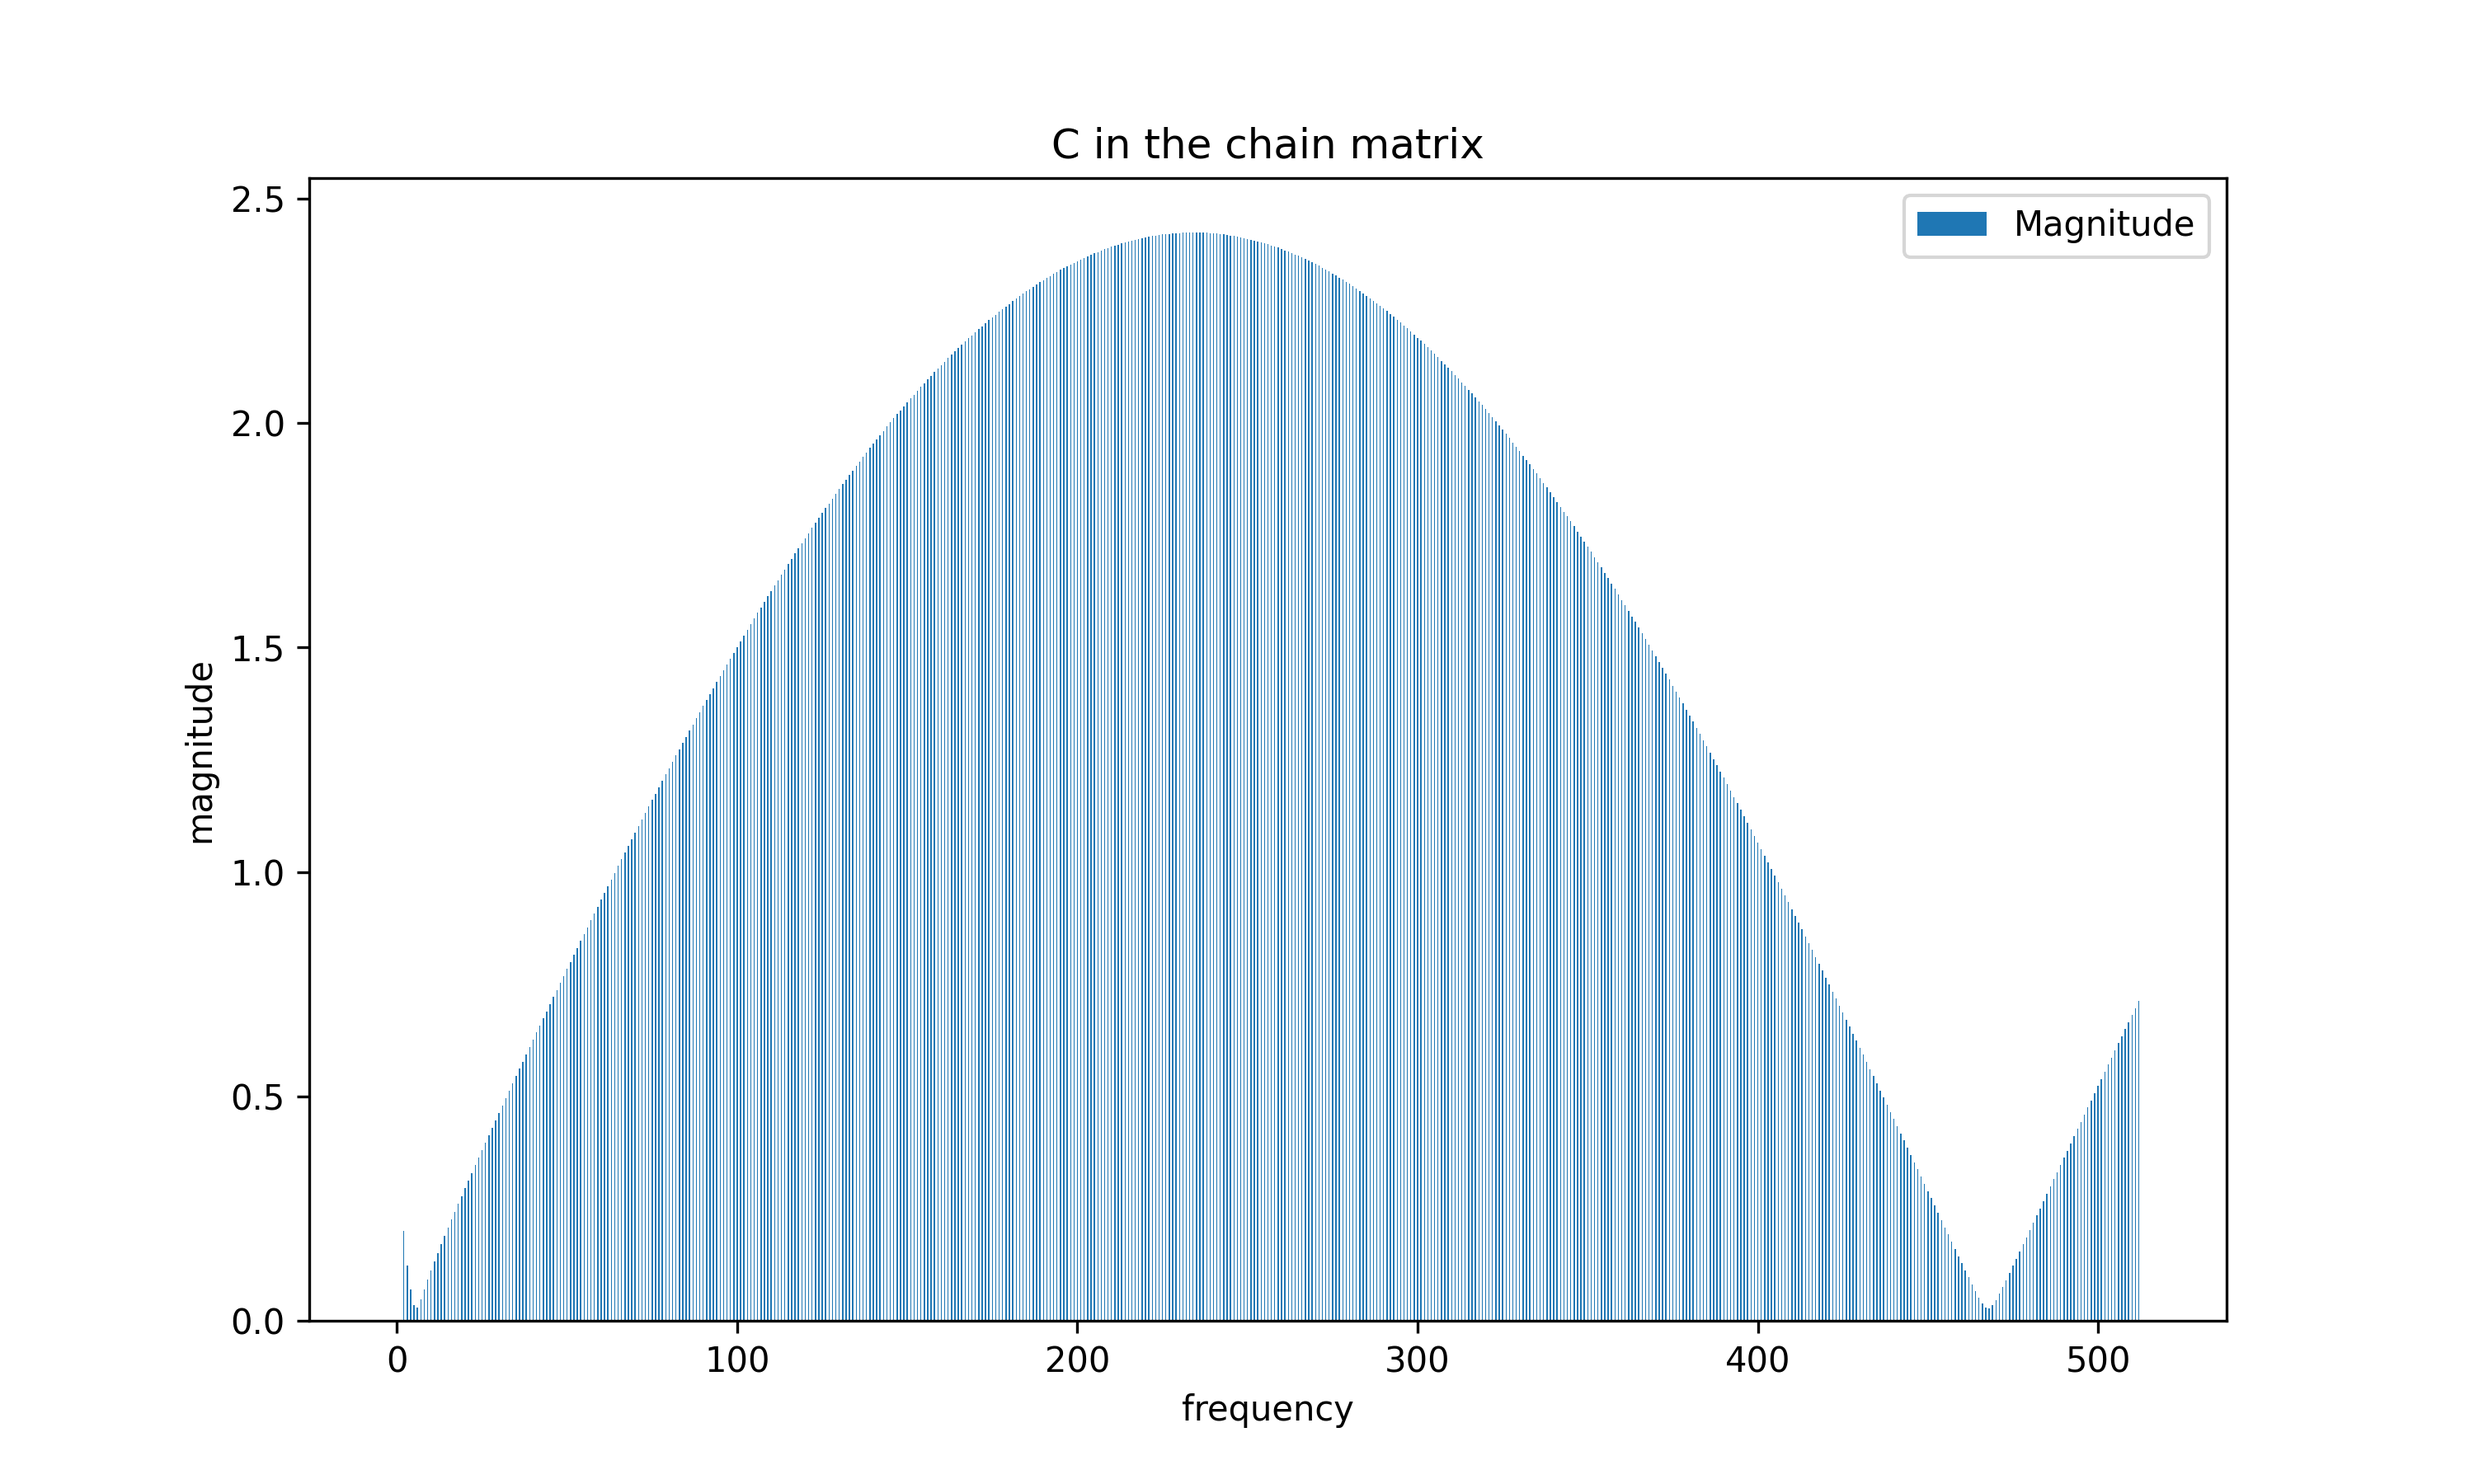
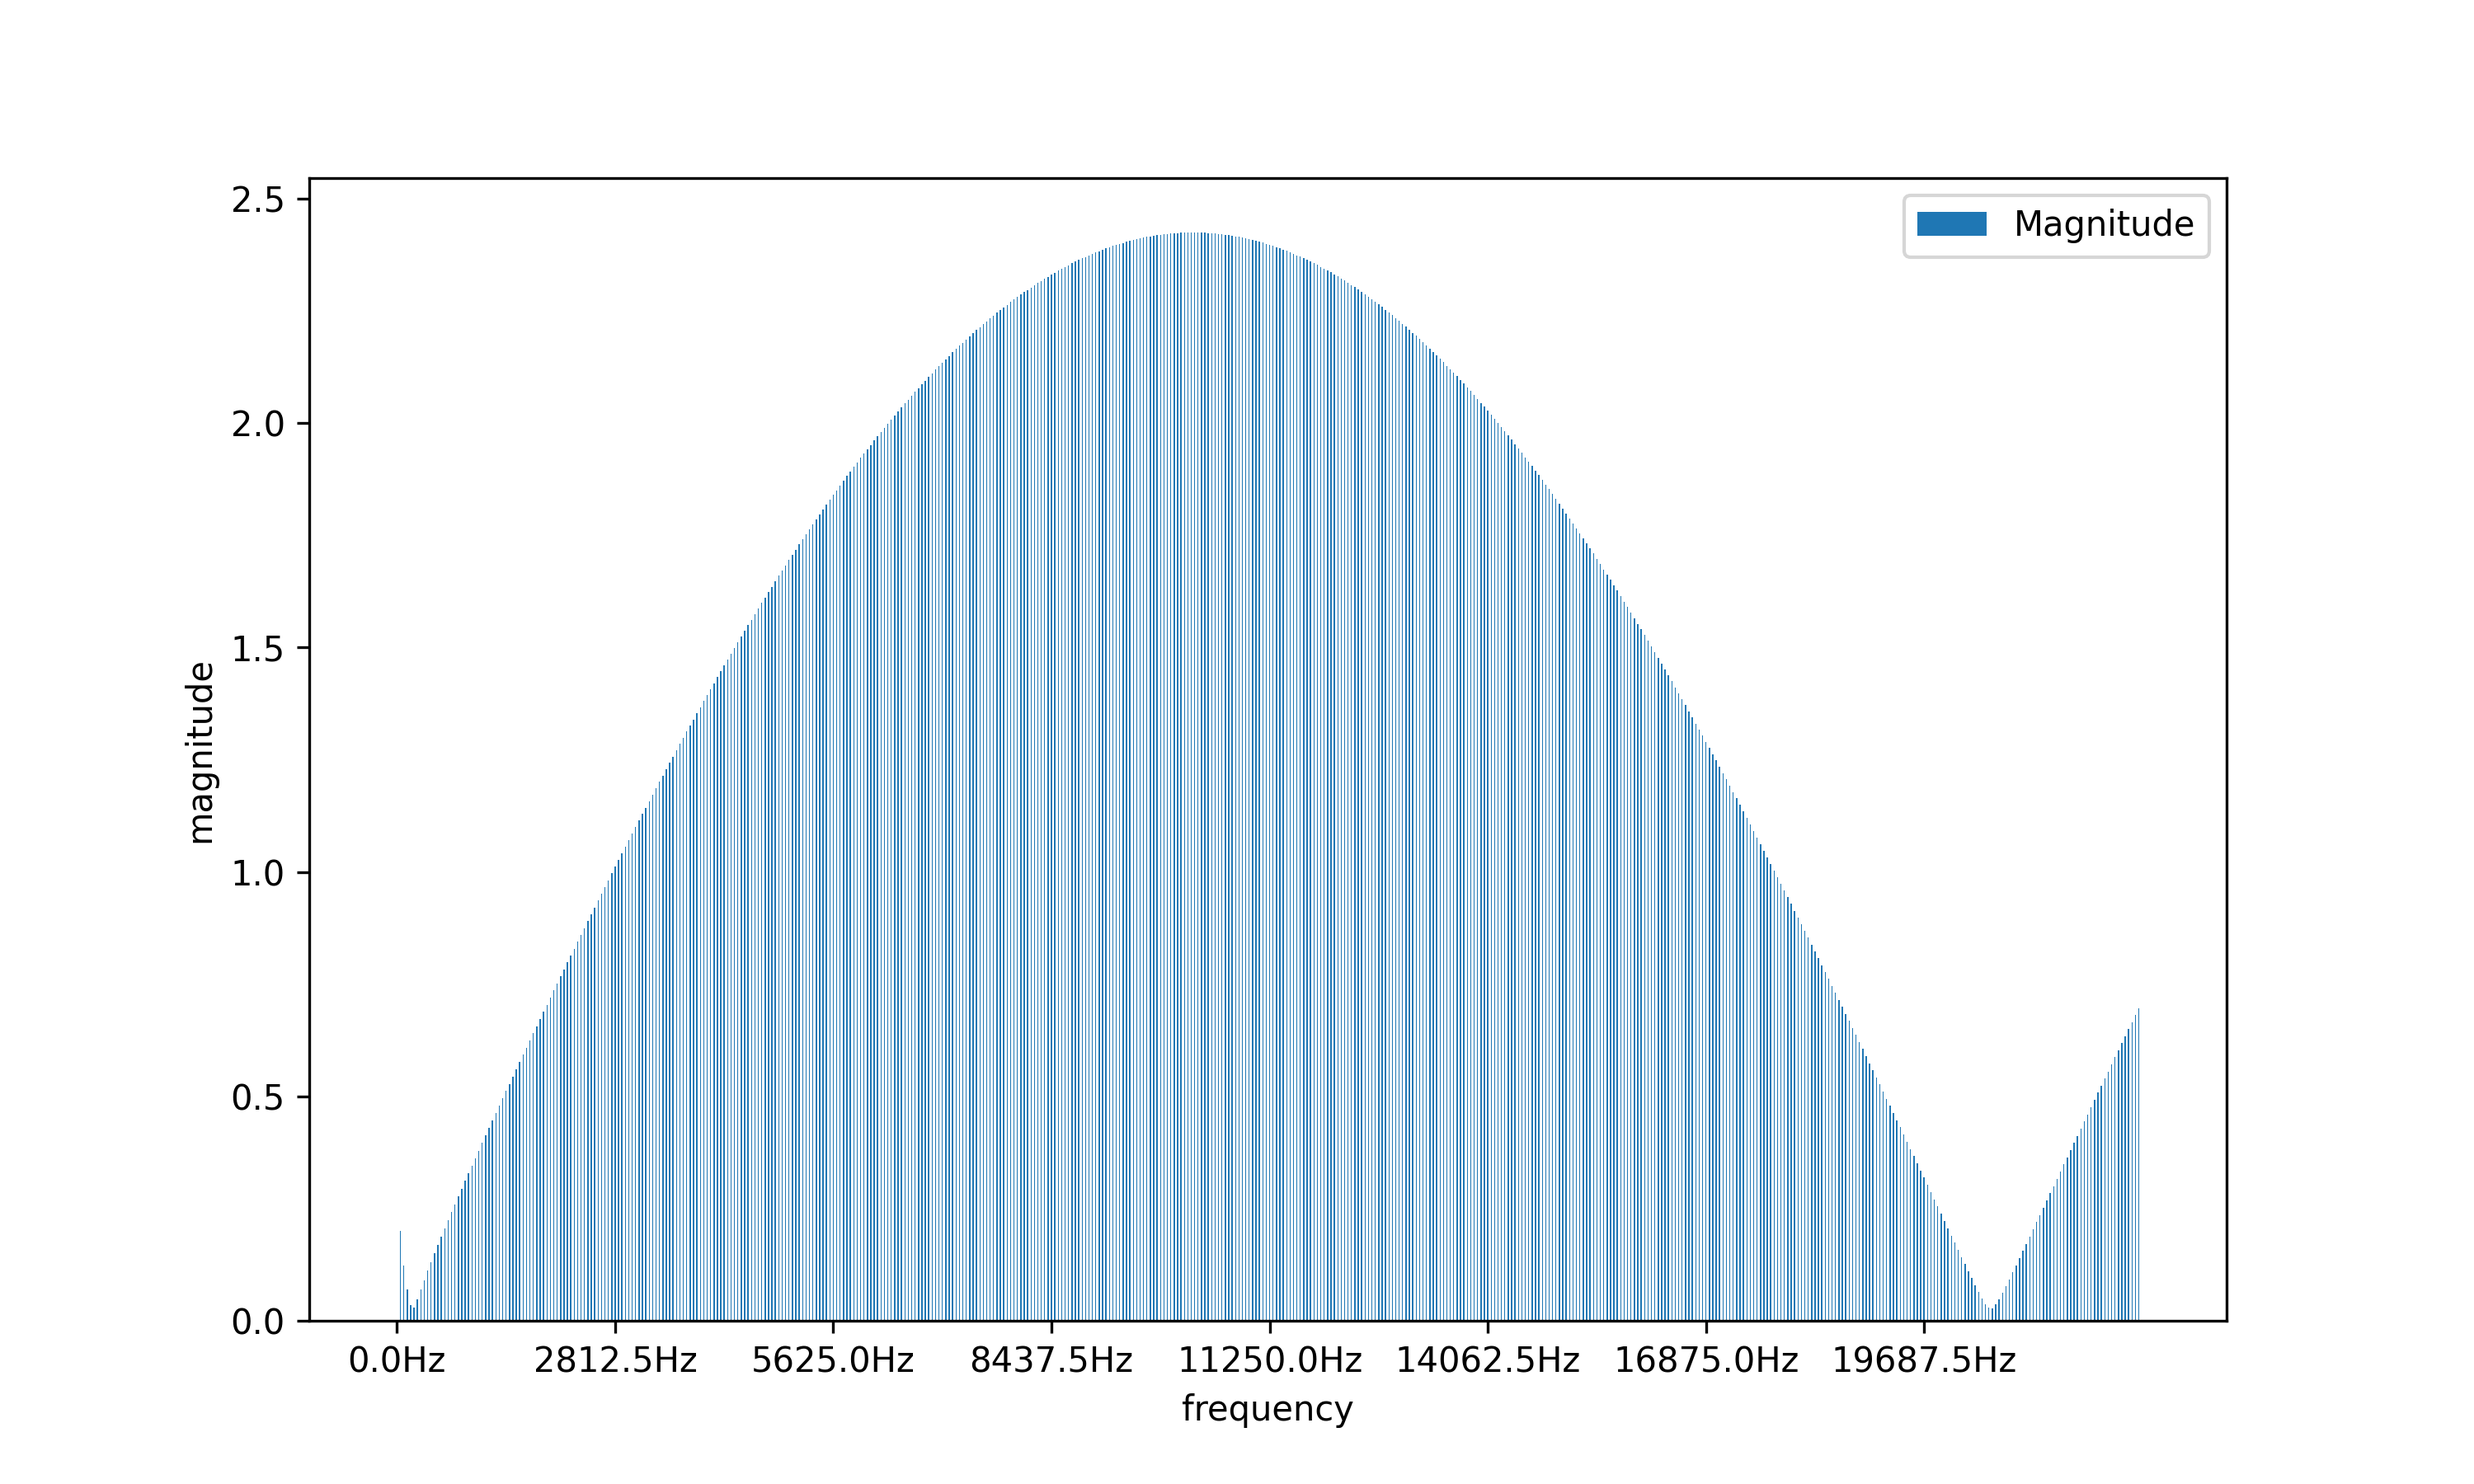
add frequency plot

diff --git a/taco_example/taco_checkpoint_load.py b/taco_example/taco_checkpoint_load.py
@@ -4,16 +4,18 @@ import torch.optim as optim
 from glottal_mel_model_v5 import TfModel,ntokens,emsize,nhead,d_hid,nlayers,dropout,ag,optimizer,testset_loader,criterion,print_spectrogram
 import data_function
 from tacotron2_common.utils import to_gpu
+from ABCD import print_fre
 
 
 model = TfModel(ntokens, emsize, nhead, d_hid, nlayers, dropout, ag.n_mel_channels, batch_first=True, ag = ag)
 
-checkpoint = torch.load(r"C:\Users\xelloss\Downloads\checkpoint_v5.pt")
+#checkpoint = torch.load(r"C:\Users\xelloss\Downloads\checkpoint_v5_10ep_lr1-3.pt")
+checkpoint = torch.load(r"C:\Users\xelloss\Downloads\checkpoint_v5_10ep.pt")
 model.load_state_dict(checkpoint['model_state_dict'])
 optimizer.load_state_dict(checkpoint['optimizer_state_dict'])
 epoch = checkpoint['epoch']
 loss = checkpoint['loss']
-
+print("Training loss", loss)
 #model.eval()
 
 def tt_dataset():
@@ -33,18 +35,31 @@ def tt_dataset():
         #gate = torch.cat([gate, gate_fill_one], dim=1)
 
         mel_length = to_gpu(torch.tensor([target.size(1)]))
-        pred_y_mel, pred_y_gate_output, predict_velocity = model(x[0],mel_length)
+        pred_y_mel, pred_y_gate_output, predict_velocity, predict_pressure, predict_matrixA, predict_matrixB = model(x[0],mel_length)
 
         loss = criterion(pred_y_mel, pred_y_gate_output, target.float(), gate.float())
         print("Test loss", loss.item())
 
-        print(target)
-        print(pred_y_mel)
+        #print(target)
+        #print(pred_y_mel)
         print_spectrogram(pred_y_mel,pred_y_gate_output)
         print_spectrogram(target,gate,ground_truth=True)
-        print_spectrogram(predict_velocity, gate, pic_name="velocity")
+        print_spectrogram(predict_velocity, gate, pic_name="g_velocity")
+        print_spectrogram(predict_pressure, gate, pic_name="g_pressure")
+        print_spectrogram(predict_matrixA, gate, pic_name="matrix_A")
+        print_spectrogram(predict_matrixB, gate, pic_name="matrix_B")
+        print_spectrogram(torch.square(pred_y_mel - target), gate, pic_name="error_spectrogram")
 
+        print("Matrix A",predict_matrixA.size())
+        matrix_A = predict_matrixA[:1,:1,:].squeeze().to("cpu").detach().numpy()
+        matrix_B = predict_matrixB[:1,:1,:].squeeze().to("cpu").detach().numpy()
 
+        g_v = predict_velocity[:1,:1,:].squeeze().to("cpu").detach().numpy()
+        g_p = predict_pressure[:1,:1,:].squeeze().to("cpu").detach().numpy()
+        print_fre(matrix_A,pic_name="v5_matrixA")
+        print_fre(matrix_B, pic_name="v5_matrixB")
+        print_fre(g_v, pic_name="v5_g_v")
+        print_fre(g_p, pic_name="v5_g_p")
         break
 
 

diff --git a/taco_example/ABCD.py b/taco_example/ABCD.py
@@ -1,4 +1,6 @@
 import math
+
+import numpy
 import numpy as np
 import matplotlib.pyplot as plt
 import torch
@@ -64,6 +66,35 @@ chainMatrix = ChainMatrix()
 
 matrix_names = ["A","B","C","D"]
 
+
+def print_fre(stft_list,n_fft=1024,sr=22500,pic_name=""):
+
+
+    ind = list(map(lambda x:x, np.arange(int(n_fft/2))))
+    width = 0.35
+    fig, ax1 = plt.subplots(figsize=(10, 6), dpi=100)
+
+    ax1.bar(ind, stft_list, width, label='Magnitude')
+    #for i, (x, y) in enumerate(zip(ind, frequency_points)):
+    #    ax1.text(x, y, '%.2f' % y, ha='center', va='bottom')
+
+
+    ax1.set_ylabel('magnitude')
+    ax1.set_xlabel('frequency')
+
+    x_ticks_positions = [n for n in range(0, n_fft // 2, n_fft // 16)]
+    x_ticks_labels = [str(sr / 512 * n) + 'Hz' for n in x_ticks_positions]
+    plt.xticks(x_ticks_positions,x_ticks_labels)
+    # if matrix_name == "A" or matrix_name == "D":
+    #     ax1.set_ylim(ymin = 1-6e-4,ymax = 1+6e-4)
+    plt.title('')
+
+    #plt.xticks(ind + width / 2, ('train_accuracy', 'val_accuracy', 'test_accuracy', 'training_time(seconds)'))
+    plt.legend(loc='best')
+    #plt.savefig("%s.png"%,dpi=300)
+    plt.savefig("%s.png"%pic_name,dpi=300)
+
+
 def generate_element_chain_matrix(matrix_name,sample_rate= 22050, n_fft=1024, mel_channels = 80):
     chainMatrix = ChainMatrix()
     matrix_func = chainMatrix.__getattribute__(matrix_name)
@@ -88,6 +119,7 @@ def generate_element_chain_matrix(matrix_name,sample_rate= 22050, n_fft=1024, me
     # plt.legend(loc='best')
     # plt.savefig("%s.png"%matrix_name,dpi=300)
 
+    print_fre(frequency_points[:-1],pic_name=matrix_name)
     m = torch.tensor([[frequency_points]]).float()
     m = to_gpu(m).float()
     print("Chain matrix",m.size())
@@ -145,12 +177,12 @@ def make_chain_matrix(sample_rate= 22050, n_fft=1024, mel_channels = 80):
 
 
 
-tt1 = torch.randn(1,3,5)
-tt2 = torch.randn(5,8)
+tt1 = torch.randn(2,2,5)
+tt2 = torch.randn(2,2,5)
 rr = torch.matmul(tt1,tt2)
 print(rr.size())
 
-# for matrix_name in matrix_names:
+#for matrix_name in matrix_names:
 #     generate_element_chain_matrix(matrix_name)
 
 
@@ -164,3 +196,11 @@ print(rr.size())
 # t = np.arange(256)
 # plt.plot(t, time_domian.real, label='aa')
 # plt.show()
+
+
+
+
+import librosa
+# load the file
+
+#print_fre([])

diff --git a/taco_example/glottal_mel_model_v5.py b/taco_example/glottal_mel_model_v5.py
@@ -640,10 +640,13 @@ def tt_dataset():
 
 
 
+
+
+
         break
 
-val()
-tt_dataset()
+#val()
+#tt_dataset()
 
 
 
